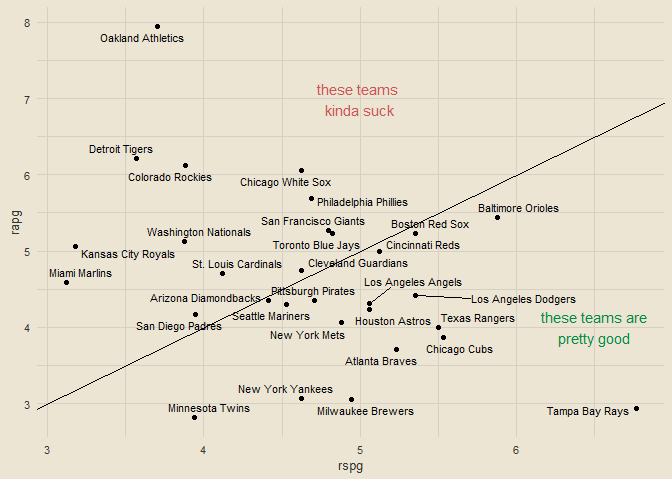
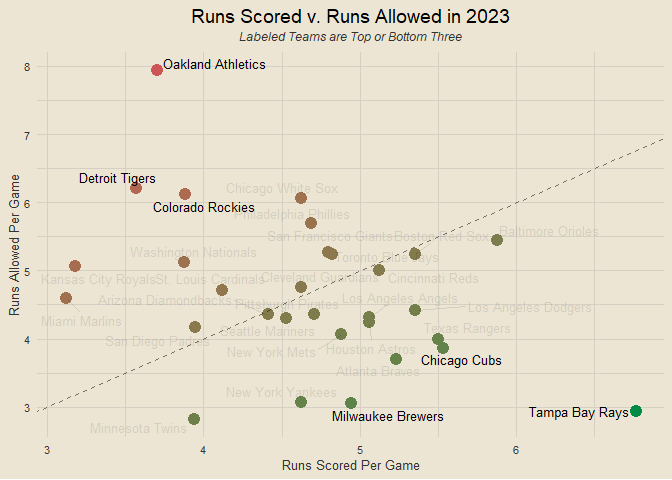
new commit with updated rspg / rapg plot + new labels

diff --git a/README.md b/README.md
@@ -61,14 +61,31 @@ rpg_df = data.frame(team = all_teams) |>
 ```
 
 ``` r
+rpg_df = rpg_df |>
+  mutate(diff = rspg - rapg)
+
+top_teams = rpg_df |>
+  slice_max(diff, n = 3) |>
+  pull(team)
+
+bottom_teams = rpg_df |>
+  slice_min(diff, n = 3) |>
+  pull(team)
+
 rpg_df |>
-  mutate(diff = rspg - rapg) |>
+  mutate(top_lab = ifelse(team %in% top_teams, team, ""),
+         bot_lab = ifelse(team %in% bottom_teams, team, ""),
+         other_lab = ifelse(!team %in% top_teams & !team %in% bottom_teams, team, "")) |>
   ggplot(aes(rspg, rapg)) +
-  geom_point() +
-  geom_abline() +
-  annotate("text", x = 6.5, y = 4, label = "these teams are\npretty good", col = "springgreen4") +
-  annotate("text", x = 5, y = 7, label = "these teams \nkinda suck", col = "indianred3") +
-  ggrepel::geom_text_repel(aes(label = team), size = 3, max.overlaps = 30)
+  geom_point(aes(col = diff), size = 4, show.legend = F) +
+  geom_abline(linetype = "dashed", alpha = 0.5) +
+  scale_color_gradient(low = "indianred3", high = "springgreen4") +
+  ggrepel::geom_text_repel(aes(label = top_lab), size = 3.5) +
+  ggrepel::geom_text_repel(aes(label = bot_lab), size = 3.5) +
+  ggrepel::geom_text_repel(aes(label = other_lab), size = 3.5, alpha = 0.1, max.overlaps = 30) +
+  labs(x = "Runs Scored Per Game", y = "Runs Allowed Per Game",
+       title = "Runs Scored v. Runs Allowed in 2023",
+       subtitle = "Labeled Teams are Top or Bottom Three")
 ```
 
 ![](README_files/figure-gfm/unnamed-chunk-4-1.png)<!-- -->
